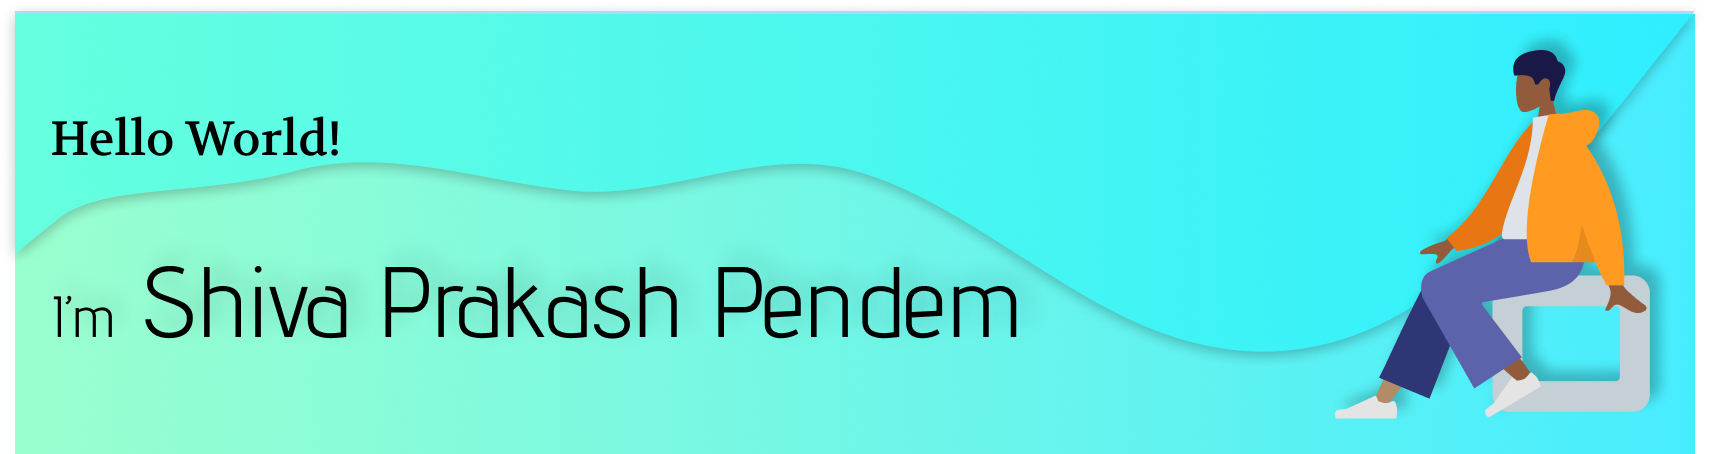
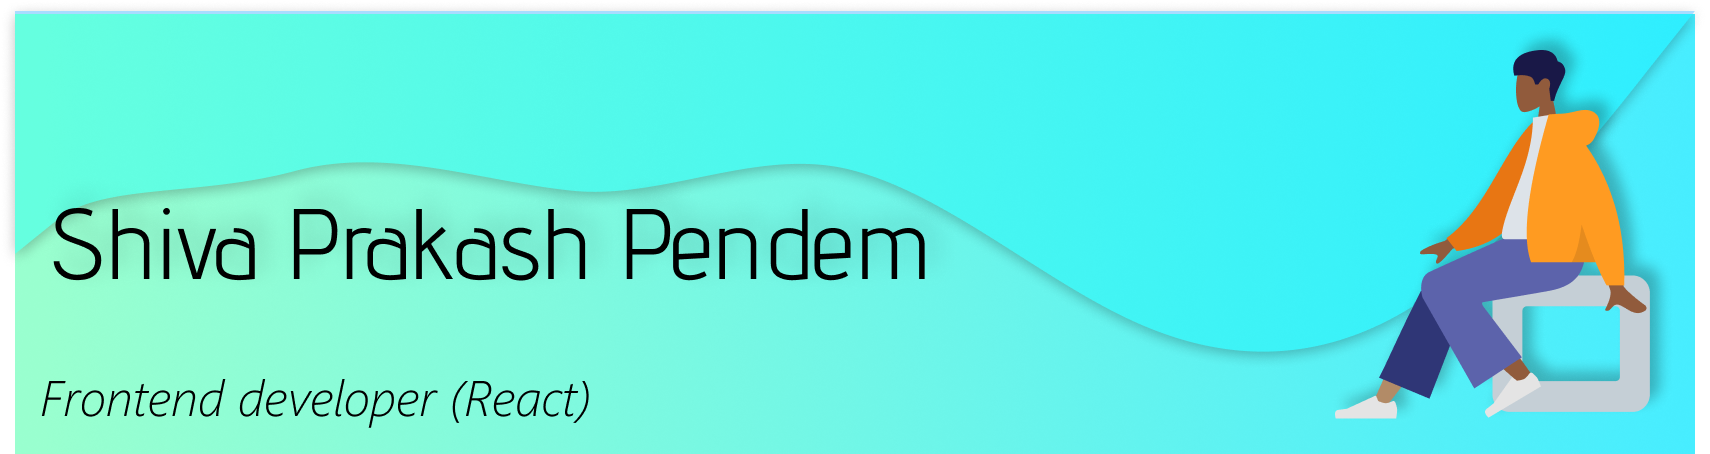
updated image and bio

Changed region(s): [[0.031, 0.4626, 0.6199, 0.7401], [0.031, 0.8326, 0.3409, 0.9251], [0.031, 0.2467, 0.217, 0.3392]]

diff --git a/README.md b/README.md
@@ -1,10 +1,13 @@
 <img title="GitHub Banner" src="resources/GitHub.png" alt="Banner with a welcome message, name and an image of a man" />
 
 
-- I’m interested in web design, full stack web development and mobile web applications.
-- I have experience using Figma, HTML, CSS, JavaScript, jQuery, Bootstrap, Node.js, Express, MongoDB, MySQL, EJS.
+- I’m interested in web design, frontend web development and mobile web applications.
+- I have experience in the following areas.
+    * Design: Figma. 
+    * Frontend: HTML5, CSS3, JavaScript, jQuery, Bootstrap, React.
+    * Backend: Node.js, Express, EJS.
+    * Databases: MongoDB, MySQL.
 - I'm also very comfortable with CLI tools.
-- I’m currently learning React and Node.js.
 - I’m interested to collaborate with other developers in this web development world.
 
 You can checkout the projects in my profile and I'd love to hear your opinions on them. You can even contribute to develop them further, if you like any of them.
@@ -12,7 +15,7 @@ You can checkout the projects in my profile and I'd love to hear your opinions o
 Here are my socials, if you want to connect with or contact me.
 [LinkedIn](https://www.linkedin.com/in/psprises)
 
-Thanks for coming to my TED talk, I hope you have a good day. :)
+I hope you have a good day. :)
 
 <!---
 shivaprakash-sudo/shivaprakash-sudo is a ✨ special ✨ repository because its `README.md` (this file) appears on your GitHub profile.
